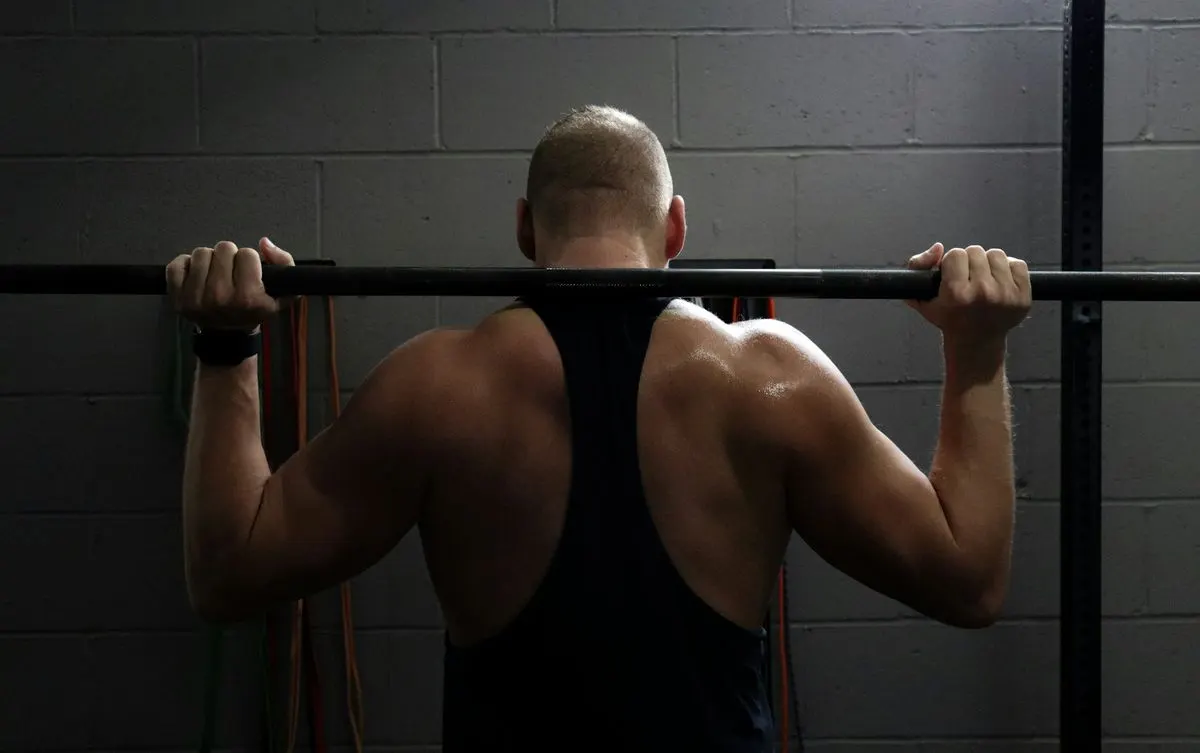
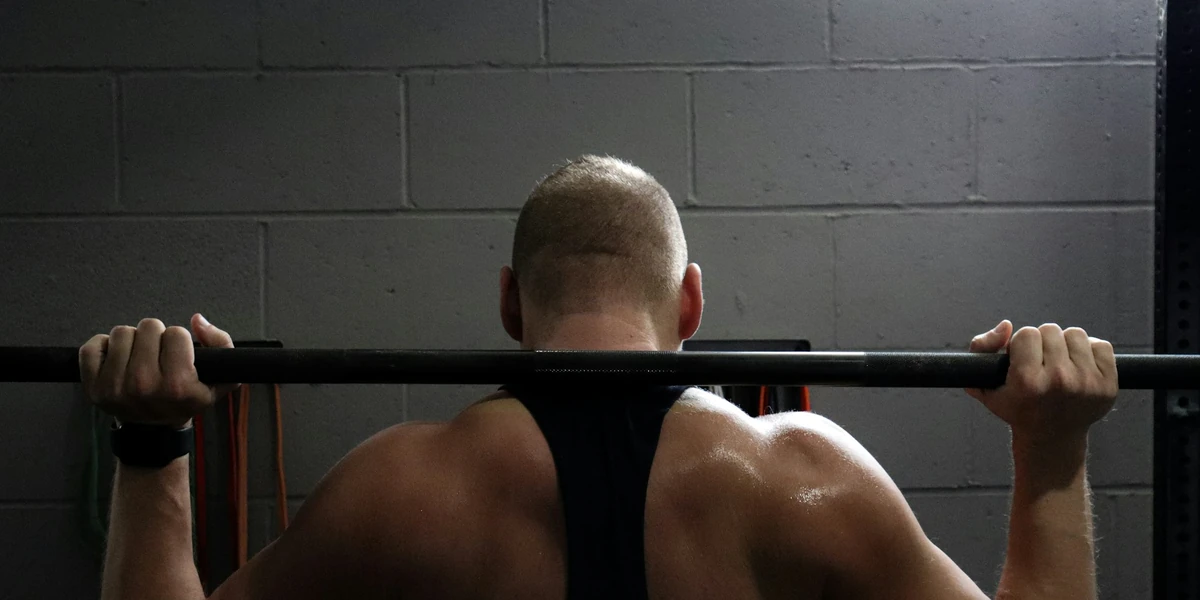
Weekly challenge cover: re-cropped so the lifter's head is in the band
The weekly card's photo band is 112 px tall, and the cover was a centre
crop of a 1200 × 753 frame, so the band showed the bar and the back and
cut off the lifter's head: a faceless torso. It was also encoded at
quality 78, and the dark block wall broke into flat blotches.

Same Morrow Solutions photograph, cropped again from the 2400 px
original: 2:1, with the head near the top, so a centred band holds the
head, the bar and both hands at 361 and 288 px wide, and the challenge
card's 160 px band does too. Encoded at quality 90 (74 KB, 1200 × 600),
which keeps the wall's texture at the 3× brightness check. The new
source record is beside the old one, which stays as history.

Claude-Session: https://claude.ai/code/session_01WVMy99jL2NQANoLAxSUsga

diff --git a/src/assets/editorial/README.md b/src/assets/editorial/README.md
@@ -11,6 +11,20 @@ imagery (route scenes, muscle figures) by design. See `GLOSSARY.md` →
 "Editorial imagery" and `src/lib/editorialImages.ts` for the resolution
 logic.
 
+### Weekly cover re-cropped — 2026-11-10
+
+`challenge-weekly` is the same Morrow Solutions photograph, cropped again
+from the 2400 px original and encoded at quality 90. The earlier file was a
+centre crop at quality 78: the weekly card's band cut off the lifter's head,
+and the dark wall broke into flat blotches. The new crop is 2:1 with the head
+near the top, so a centred band holds the head, the bar and both hands at
+every card size. It is 74 KB, 1200 × 600. Crop, hashes and settings are in
+[`sources-2026-11-10-weekly-recrop.json`](./sources-2026-11-10-weekly-recrop.json).
+
+A dark photograph with little texture comes out small at any quality, so
+judge an encode by its 3× brightness check, not by its size next to the
+others.
+
 ### Real Social covers — 2026-10-31
 
 Eight generic challenge and Space covers now use distinct, real Pexels
@@ -288,6 +302,6 @@ All are landscape WebP at 1200 × 753, original colour, below 120 KB, and were
 checked at 3x brightness. The kettlebell's moulded "24KG" is its weight, not a
 maker's mark. The Dugald Stewart Monument's carved name on Calton Hill is
 faint at 3x and treated like the city signage above. Northleg asks for a
-credit link (northleg.com); the Unsplash License does not require one. In the
-challenge card's 361 × 112 band `challenge-weekly` loses the lifter's head;
-the bar and back still read.
+credit link (northleg.com); the Unsplash License does not require one.
+`challenge-weekly` has since been re-cropped (2026-11-10, at the top of this
+file) because this crop lost the lifter's head in the card's band.
